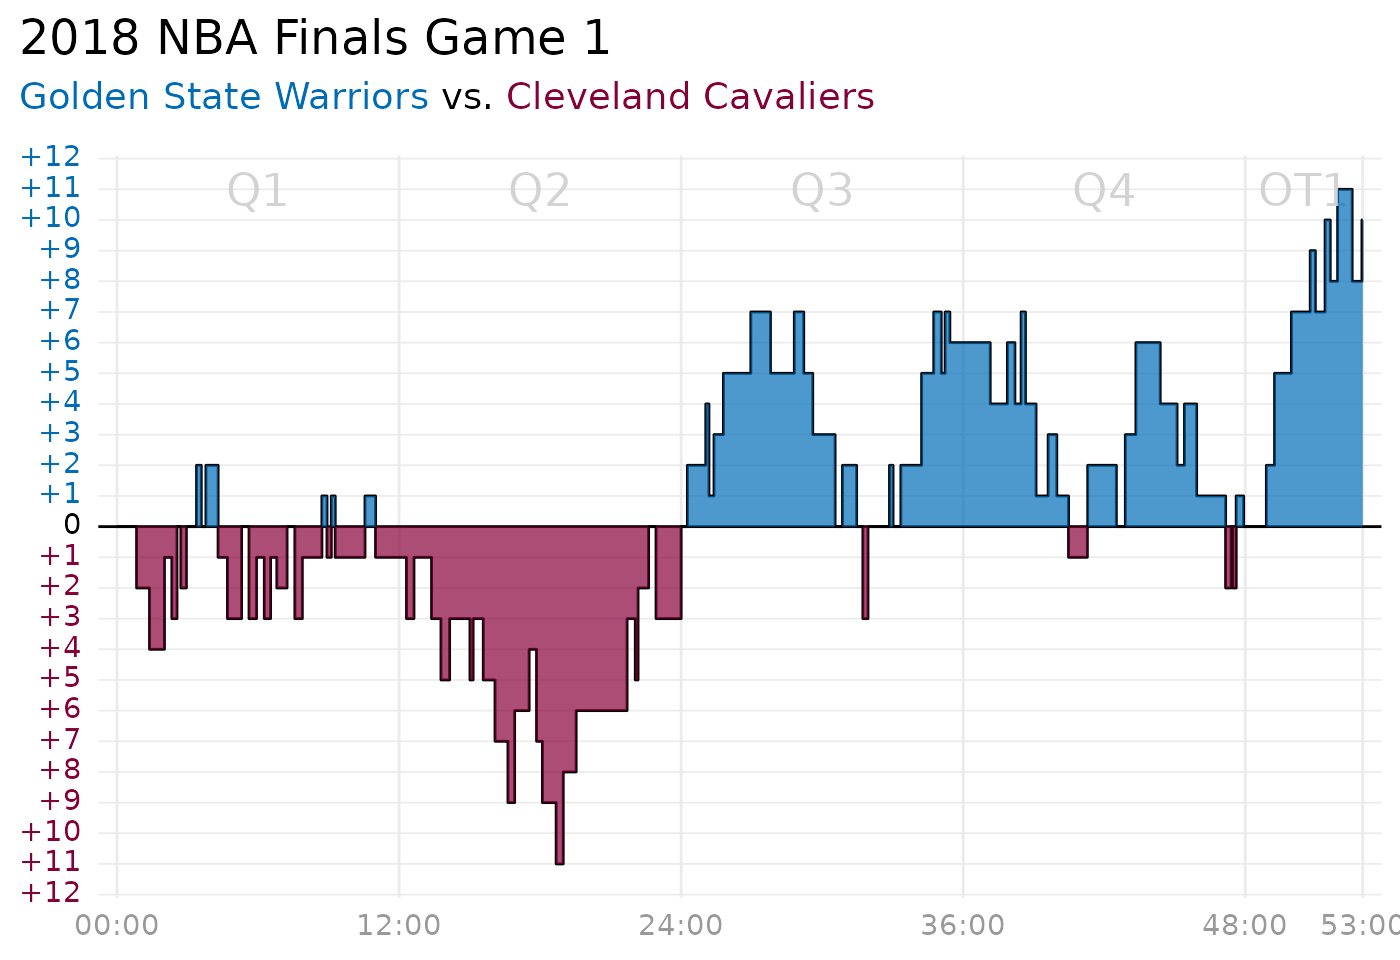
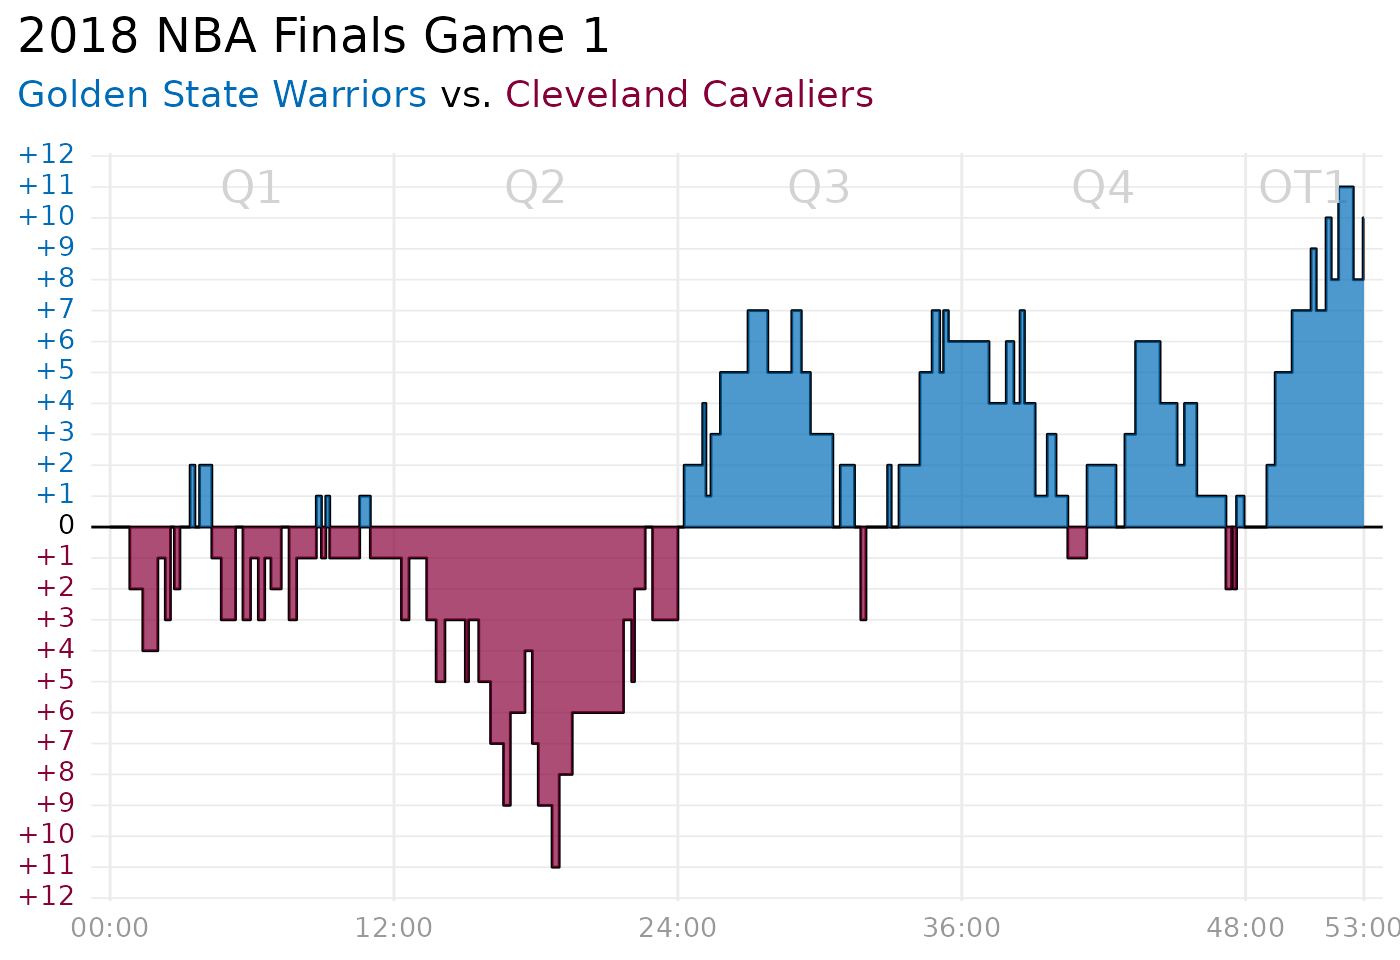
Built site for ggbraid: 0.2.2@66133c0

diff --git a/articles/temps.html b/articles/temps.html
@@ -89,13 +89,13 @@
     
     
 <div class="alert alert-info">
-<p>This article presents the “Unbraided Ribbon Problem” in which <code><a href="https://ggplot2.tidyverse.org/reference/geom_ribbon.html" class="external-link">geom_ribbon()</a></code> incorrectly fills the area between two alternating lines with two different colors. To fix the problem, we use <code><a href="../reference/geom_braid.html">geom_braid()</a></code> from <code>ggbraid</code> with <code>method = 'line'</code>.</p>
+<p>This article presents the “Unbraided Ribbon Problem” in which <code><a href="https://ggplot2.tidyverse.org/reference/geom_ribbon.html" class="external-link">geom_ribbon()</a></code> incorrectly fills the area between two alternating lines with two different colors. To fix the problem, we use <code><a href="../reference/geom_braid.html">geom_braid()</a></code> from ggbraid with <code>method = 'line'</code>.</p>
 </div>
 <p>Let’s compare the temperatures of two cities in the United States: New York, New York and San Francisco, California.</p>
 <div class="section level2">
 <h2 id="getting-started">Getting Started<a class="anchor" aria-label="anchor" href="#getting-started"></a>
 </h2>
-<p><code>ggbraid</code> provides a data frame called <code>temps</code>, with daily average temperatures of New York and San Francisco in 2021 as recorded by the US National Weather Service (NWS) at <a href="https://www.weather.gov/" class="external-link">weather.gov</a>.<a class="footnote-ref" tabindex="0" data-bs-toggle="popover" data-bs-content='&lt;p&gt;It is difficult to pull data from the NWS. It does not provide the data via an API and the data it returns through its point-and-click interface isn’t in plain text format! To make matters worse, you can only retrieve data from a city one month at a time. For San Francisco, visit &lt;a href="https://www.weather.gov/wrh/climate?wfo=mtr" class="external-link"&gt;weather.gov/wrh/climate?wfo=mtr&lt;/a&gt; and choose “San Francisco City, CA”, “Daily data for a month”, and a month from 2021; for New York, visit &lt;a href="https://www.weather.gov/wrh/climate?wfo=okx" class="external-link"&gt;weather.gov/wrh/climate?wfo=okx&lt;/a&gt; and choose “NY-Central Park Area”, “Daily data for a month”, and a month from 2021. Copy and paste the data into spreadsheet software for further processing.&lt;/p&gt;'><sup>1</sup></a></p>
+<p>ggbraid provides a data frame called <code>temps</code>, with daily average temperatures of New York and San Francisco in 2021 as recorded by the US National Weather Service (NWS) at <a href="https://www.weather.gov/" class="external-link">weather.gov</a>.<a class="footnote-ref" tabindex="0" data-bs-toggle="popover" data-bs-content='&lt;p&gt;It is difficult to pull data from the NWS. It does not provide the data via an API and the data it returns through its point-and-click interface isn’t in plain text format! To make matters worse, you can only retrieve data from a city one month at a time. For San Francisco, visit &lt;a href="https://www.weather.gov/wrh/climate?wfo=mtr" class="external-link"&gt;weather.gov/wrh/climate?wfo=mtr&lt;/a&gt; and choose “San Francisco City, CA”, “Daily data for a month”, and a month from 2021; for New York, visit &lt;a href="https://www.weather.gov/wrh/climate?wfo=okx" class="external-link"&gt;weather.gov/wrh/climate?wfo=okx&lt;/a&gt; and choose “NY-Central Park Area”, “Daily data for a month”, and a month from 2021. Copy and paste the data into spreadsheet software for further processing.&lt;/p&gt;'><sup>1</sup></a></p>
 <div class="sourceCode" id="cb1"><pre class="downlit sourceCode r">
 <code class="sourceCode R"><span class="kw"><a href="https://rdrr.io/r/base/library.html" class="external-link">library</a></span><span class="op">(</span><span class="va"><a href="https://ggplot2.tidyverse.org" class="external-link">ggplot2</a></span><span class="op">)</span>
 <span class="kw"><a href="https://rdrr.io/r/base/library.html" class="external-link">library</a></span><span class="op">(</span><span class="va"><a href="https://nsgrantham.github.io/ggbraid/">ggbraid</a></span><span class="op">)</span>
@@ -145,7 +145,7 @@
   <span class="op">)</span> <span class="op">+</span>
   <span class="fu"><a href="https://ggplot2.tidyverse.org/reference/ggtheme.html" class="external-link">theme_minimal</a></span><span class="op">(</span>base_size <span class="op">=</span> <span class="fl">14</span><span class="op">)</span> <span class="op">+</span>
   <span class="fu"><a href="https://ggplot2.tidyverse.org/reference/theme.html" class="external-link">theme</a></span><span class="op">(</span>
-    plot.title <span class="op">=</span> <span class="fu"><a href="https://ggplot2.tidyverse.org/reference/element.html" class="external-link">element_text</a></span><span class="op">(</span>size <span class="op">=</span> <span class="fl">16</span><span class="op">)</span>,
+    plot.title <span class="op">=</span> <span class="fu"><a href="https://ggplot2.tidyverse.org/reference/element.html" class="external-link">element_text</a></span><span class="op">(</span>size <span class="op">=</span> <span class="fl">15</span><span class="op">)</span>,
     plot.title.position <span class="op">=</span> <span class="st">"plot"</span>,
     legend.position <span class="op">=</span> <span class="fu"><a href="https://rdrr.io/r/base/c.html" class="external-link">c</a></span><span class="op">(</span><span class="fl">0.75</span>, <span class="fl">1.06</span><span class="op">)</span>,
     legend.direction <span class="op">=</span> <span class="st">"horizontal"</span>,
@@ -313,7 +313,7 @@
 <div class="section level2">
 <h2 id="braiding-with-ggbraid">Braiding with ggbraid<a class="anchor" aria-label="anchor" href="#braiding-with-ggbraid"></a>
 </h2>
-<p>The functions in <code>ggbraid</code> take care of all the braiding for you. Simply replace <code><a href="https://ggplot2.tidyverse.org/reference/geom_ribbon.html" class="external-link">geom_ribbon()</a></code> with <code><a href="../reference/geom_braid.html">geom_braid()</a></code>.</p>
+<p>The functions in ggbraid take care of all the braiding for you. Simply replace <code><a href="https://ggplot2.tidyverse.org/reference/geom_ribbon.html" class="external-link">geom_ribbon()</a></code> with <code><a href="../reference/geom_braid.html">geom_braid()</a></code>.</p>
 <div class="sourceCode" id="cb7"><pre class="downlit sourceCode r">
 <code class="sourceCode R"><span class="va">p</span> <span class="op">+</span>
   <span class="fu"><a href="../reference/geom_braid.html">geom_braid</a></span><span class="op">(</span>
@@ -325,7 +325,7 @@
 <p><img src="temps_files/figure-html/geom-braid-with-fill-1.png" width="100%"></p>
 <p>There we go!</p>
 <p>Notice the message from <code><a href="../reference/geom_braid.html">geom_braid()</a></code> that it is using <code>method = 'line'</code>. Since we’ve drawn lines with <code><a href="https://ggplot2.tidyverse.org/reference/geom_path.html" class="external-link">geom_line()</a></code> we must use <code>method = 'line'</code> to determine the point at which the lines intersect when the intersection occurs between two rows in the data. We can silence this message by explicity including <code>method = 'line'</code> within <code><a href="../reference/geom_braid.html">geom_braid()</a></code>.</p>
-<p><code><a href="../reference/geom_braid.html">geom_braid()</a></code> isn’t a new geometry. It takes the data provided, performs the necessary braiding operations on it, and passes the result to <code><a href="https://ggplot2.tidyverse.org/reference/geom_ribbon.html" class="external-link">geom_ribbon()</a></code> for drawing. If we’d like, we can still use <code><a href="https://ggplot2.tidyverse.org/reference/geom_ribbon.html" class="external-link">geom_ribbon()</a></code> and set <code>stat = 'braid'</code>.</p>
+<p><code><a href="../reference/geom_braid.html">geom_braid()</a></code> takes the data provided, performs the necessary braiding operations on it with <code><a href="../reference/geom_braid.html">stat_braid()</a></code>, and passes the result to <code><a href="https://ggplot2.tidyverse.org/reference/geom_ribbon.html" class="external-link">geom_ribbon()</a></code> for drawing. If we’d like, we can still use <code><a href="https://ggplot2.tidyverse.org/reference/geom_ribbon.html" class="external-link">geom_ribbon()</a></code> and set <code>stat = 'braid'</code>.</p>
 <div class="sourceCode" id="cb8"><pre class="downlit sourceCode r">
 <code class="sourceCode R"><span class="va">p</span> <span class="op">+</span>
   <span class="fu"><a href="https://ggplot2.tidyverse.org/reference/geom_ribbon.html" class="external-link">geom_ribbon</a></span><span class="op">(</span>

diff --git a/index.html b/index.html
@@ -92,8 +92,8 @@
 </h2>
 <p>You can install the development version of ggbraid from GitHub with:</p>
 <div class="sourceCode" id="cb1"><pre class="downlit sourceCode r">
-<code class="sourceCode R"><span class="co"># install.packages("devtools")</span>
-<span class="fu">devtools</span><span class="fu">::</span><span class="fu">install_github</span><span class="op">(</span><span class="st">"nsgrantham/ggbraid"</span><span class="op">)</span></code></pre></div>
+<code class="sourceCode R"><span class="co"># install.packages("remotes")</span>
+<span class="fu">remotes</span><span class="fu">::</span><span class="fu">install_github</span><span class="op">(</span><span class="st">"nsgrantham/ggbraid"</span><span class="op">)</span></code></pre></div>
 </div>
 <div class="section level2">
 <h2 id="usage">Usage<a class="anchor" aria-label="anchor" href="#usage"></a>
@@ -155,9 +155,8 @@
   <span class="fu"><a href="https://ggplot2.tidyverse.org/reference/geom_ribbon.html" class="external-link">geom_ribbon</a></span><span class="op">(</span><span class="fu"><a href="https://ggplot2.tidyverse.org/reference/aes.html" class="external-link">aes</a></span><span class="op">(</span><span class="va">x</span>, ymin <span class="op">=</span> <span class="va">a</span>, ymax <span class="op">=</span> <span class="va">b</span><span class="op">)</span>, data <span class="op">=</span> <span class="va">df_wide</span>, alpha <span class="op">=</span> <span class="fl">0.2</span><span class="op">)</span> <span class="op">+</span>
   <span class="fu"><a href="https://ggplot2.tidyverse.org/reference/guides.html" class="external-link">guides</a></span><span class="op">(</span>linetype <span class="op">=</span> <span class="st">"none"</span><span class="op">)</span></code></pre></div>
 <p><img src="reference/figures/README-geom-ribbon-without-fill-1.png" width="100%"></p>
-<p>Looking good.</p>
-<p>Now what about two different colors? One color for when the solid line is <em>above</em> the dashed line, and a different color when the solid line is <em>below</em> the dashed line.</p>
-<p>That shouldn’t be too hard. Let’s use <code><a href="https://ggplot2.tidyverse.org/reference/geom_ribbon.html" class="external-link">geom_ribbon()</a></code> again and map <code>a &lt; b</code> to the <code>fill</code> aesthetic.</p>
+<p>Can we fill the area between the two lines with two different colors? One color when the solid line is <em>above</em> the dashed line, and a different color when the solid line is <em>below</em> the dashed line?</p>
+<p>That shouldn’t be hard. Let’s map <code>a &lt; b</code> to the <code>fill</code> aesthetic in <code><a href="https://ggplot2.tidyverse.org/reference/geom_ribbon.html" class="external-link">geom_ribbon()</a></code> and…</p>
 <div class="sourceCode" id="cb5"><pre class="downlit sourceCode r">
 <code class="sourceCode R"><span class="fu"><a href="https://ggplot2.tidyverse.org/reference/ggplot.html" class="external-link">ggplot</a></span><span class="op">(</span><span class="op">)</span> <span class="op">+</span>
   <span class="fu"><a href="https://ggplot2.tidyverse.org/reference/geom_path.html" class="external-link">geom_line</a></span><span class="op">(</span><span class="fu"><a href="https://ggplot2.tidyverse.org/reference/aes.html" class="external-link">aes</a></span><span class="op">(</span><span class="va">x</span>, <span class="va">y</span>, linetype <span class="op">=</span> <span class="va">z</span><span class="op">)</span>, data <span class="op">=</span> <span class="va">df_long</span><span class="op">)</span> <span class="op">+</span>
@@ -165,7 +164,7 @@
   <span class="fu"><a href="https://ggplot2.tidyverse.org/reference/guides.html" class="external-link">guides</a></span><span class="op">(</span>linetype <span class="op">=</span> <span class="st">"none"</span>, fill <span class="op">=</span> <span class="st">"none"</span><span class="op">)</span></code></pre></div>
 <p><img src="reference/figures/README-geom-ribbon-with-fill-1.png" width="100%"></p>
 <p>Chaos. What happened?</p>
-<p>This is called the “Unbraided Ribbon Problem”.</p>
+<p>This is the “Unbraided Ribbon Problem”.</p>
 <p>Not to worry, we can braid the unbraided ribbon with ggbraid — simply replace <code><a href="https://ggplot2.tidyverse.org/reference/geom_ribbon.html" class="external-link">geom_ribbon()</a></code> with <code><a href="reference/geom_braid.html">geom_braid()</a></code>.</p>
 <div class="sourceCode" id="cb6"><pre class="downlit sourceCode r">
 <code class="sourceCode R"><span class="fu"><a href="https://ggplot2.tidyverse.org/reference/ggplot.html" class="external-link">ggplot</a></span><span class="op">(</span><span class="op">)</span> <span class="op">+</span>
@@ -174,7 +173,6 @@
   <span class="fu"><a href="https://ggplot2.tidyverse.org/reference/guides.html" class="external-link">guides</a></span><span class="op">(</span>linetype <span class="op">=</span> <span class="st">"none"</span>, fill <span class="op">=</span> <span class="st">"none"</span><span class="op">)</span>
 <span class="co">#&gt; `geom_braid()` using method = 'line'</span></code></pre></div>
 <p><img src="reference/figures/README-geom-braid-with-fill-1.png" width="100%"></p>
-<p>There we go.</p>
 </div>
 <div class="section level2">
 <h2 id="articles">Articles<a class="anchor" aria-label="anchor" href="#articles"></a>

diff --git a/reference/temps.html b/reference/temps.html
@@ -68,7 +68,7 @@ in 2021 as recorded by the US National Weather Service (NWS) at weather.gov.</p>
     <div class="section level2">
     <h2 id="format">Format<a class="anchor" aria-label="anchor" href="#format"></a></h2>
     <p>A data frame (specifically a tbl_df) with 730 rows and 3 variables:</p><dl><dt><code>city</code></dt>
-<dd><p>New York or San Francisco</p></dd>
+<dd><p><code>New York</code> or <code>San Francisco</code></p></dd>
 
 <dt><code>date</code></dt>
 <dd><p>Date in <code>YYYY-MM-DD</code> format</p></dd>
@@ -85,13 +85,32 @@ the nearest half degree</p></dd>
 an API and the data it returns through its point-and-click interface isn't in
 plain text format! To make matters worse, you can only retrieve data from a
 city one month at a time.</p>
-<p>For San Francisco, visit https://www.weather.gov/wrh/climate?wfo=mtr
+<p>For San Francisco, visit <a href="https://www.weather.gov/wrh/climate?wfo=mtr" class="external-link">https://www.weather.gov/wrh/climate?wfo=mtr</a>
 and choose "San Francisco City, CA", "Daily data for a month", and a month
-from 2021; for New York, visit https://www.weather.gov/wrh/climate?wfo=okx
+from 2021; for New York, visit <a href="https://www.weather.gov/wrh/climate?wfo=okx" class="external-link">https://www.weather.gov/wrh/climate?wfo=okx</a>
 and choose "NY-Central Park Area", "Daily data for a month", and a month from
 2021. Copy and paste the data into spreadsheet software for further processing.</p>
     </div>
 
+    <div class="section level2">
+    <h2 id="ref-examples">Examples<a class="anchor" aria-label="anchor" href="#ref-examples"></a></h2>
+    <div class="sourceCode"><pre class="sourceCode r"><code><span class="r-in"><span class="va">temps</span></span>
+<span class="r-out co"><span class="r-pr">#&gt;</span> <span style="color: #949494;"># A tibble: 730 × 3</span></span>
+<span class="r-out co"><span class="r-pr">#&gt;</span>    city     date         avg</span>
+<span class="r-out co"><span class="r-pr">#&gt;</span>    <span style="color: #949494; font-style: italic;">&lt;chr&gt;</span>    <span style="color: #949494; font-style: italic;">&lt;date&gt;</span>     <span style="color: #949494; font-style: italic;">&lt;dbl&gt;</span></span>
+<span class="r-out co"><span class="r-pr">#&gt;</span> <span style="color: #BCBCBC;"> 1</span> New York 2021-01-01  36.5</span>
+<span class="r-out co"><span class="r-pr">#&gt;</span> <span style="color: #BCBCBC;"> 2</span> New York 2021-01-02  43.5</span>
+<span class="r-out co"><span class="r-pr">#&gt;</span> <span style="color: #BCBCBC;"> 3</span> New York 2021-01-03  36  </span>
+<span class="r-out co"><span class="r-pr">#&gt;</span> <span style="color: #BCBCBC;"> 4</span> New York 2021-01-04  39  </span>
+<span class="r-out co"><span class="r-pr">#&gt;</span> <span style="color: #BCBCBC;"> 5</span> New York 2021-01-05  39  </span>
+<span class="r-out co"><span class="r-pr">#&gt;</span> <span style="color: #BCBCBC;"> 6</span> New York 2021-01-06  37.5</span>
+<span class="r-out co"><span class="r-pr">#&gt;</span> <span style="color: #BCBCBC;"> 7</span> New York 2021-01-07  35.5</span>
+<span class="r-out co"><span class="r-pr">#&gt;</span> <span style="color: #BCBCBC;"> 8</span> New York 2021-01-08  32  </span>
+<span class="r-out co"><span class="r-pr">#&gt;</span> <span style="color: #BCBCBC;"> 9</span> New York 2021-01-09  30.5</span>
+<span class="r-out co"><span class="r-pr">#&gt;</span> <span style="color: #BCBCBC;">10</span> New York 2021-01-10  35  </span>
+<span class="r-out co"><span class="r-pr">#&gt;</span> <span style="color: #949494;"># … with 720 more rows</span></span>
+</code></pre></div>
+    </div>
   </main><aside class="col-md-3"><nav id="toc"><h2>On this page</h2>
     </nav></aside></div>
 

diff --git a/reference/hoops.html b/reference/hoops.html
@@ -71,10 +71,10 @@ Warriors and the Cleveland Cavaliers.</p>
     <div class="section level2">
     <h2 id="format">Format<a class="anchor" aria-label="anchor" href="#format"></a></h2>
     <p>A data frame (specifically a tbl_df) with 129 rows and 3 variables:</p><dl><dt><code>time</code></dt>
-<dd><p>Game time in <code>MM\\'SS\\"</code> format</p></dd>
+<dd><p>Game time</p></dd>
 
 <dt><code>team</code></dt>
-<dd><p>Golden State Warriors (GSW) or Cleveland Cavaliers (CLE)</p></dd>
+<dd><p>Golden State Warriors (<code>GSW</code>) or Cleveland Cavaliers (<code>CLE</code>)</p></dd>
 
 <dt><code>points</code></dt>
 <dd><p>Points scored, either 1, 2, or 3 (or 0, only in cases
@@ -83,6 +83,25 @@ to mark the start and end of the game)</p></dd>
 
 </dl></div>
 
+    <div class="section level2">
+    <h2 id="ref-examples">Examples<a class="anchor" aria-label="anchor" href="#ref-examples"></a></h2>
+    <div class="sourceCode"><pre class="sourceCode r"><code><span class="r-in"><span class="va">hoops</span></span>
+<span class="r-out co"><span class="r-pr">#&gt;</span> <span style="color: #949494;"># A tibble: 129 × 3</span></span>
+<span class="r-out co"><span class="r-pr">#&gt;</span>    time     team  points</span>
+<span class="r-out co"><span class="r-pr">#&gt;</span>    <span style="color: #949494; font-style: italic;">&lt;drtn&gt;</span>   <span style="color: #949494; font-style: italic;">&lt;chr&gt;</span>  <span style="color: #949494; font-style: italic;">&lt;dbl&gt;</span></span>
+<span class="r-out co"><span class="r-pr">#&gt;</span> <span style="color: #BCBCBC;"> 1</span>   0 secs CLE        0</span>
+<span class="r-out co"><span class="r-pr">#&gt;</span> <span style="color: #BCBCBC;"> 2</span>   0 secs GSW        0</span>
+<span class="r-out co"><span class="r-pr">#&gt;</span> <span style="color: #BCBCBC;"> 3</span>  50 secs CLE        2</span>
+<span class="r-out co"><span class="r-pr">#&gt;</span> <span style="color: #BCBCBC;"> 4</span>  83 secs CLE        2</span>
+<span class="r-out co"><span class="r-pr">#&gt;</span> <span style="color: #BCBCBC;"> 5</span> 121 secs GSW        3</span>
+<span class="r-out co"><span class="r-pr">#&gt;</span> <span style="color: #BCBCBC;"> 6</span> 140 secs CLE        2</span>
+<span class="r-out co"><span class="r-pr">#&gt;</span> <span style="color: #BCBCBC;"> 7</span> 153 secs GSW        2</span>
+<span class="r-out co"><span class="r-pr">#&gt;</span> <span style="color: #BCBCBC;"> 8</span> 153 secs GSW        1</span>
+<span class="r-out co"><span class="r-pr">#&gt;</span> <span style="color: #BCBCBC;"> 9</span> 163 secs CLE        1</span>
+<span class="r-out co"><span class="r-pr">#&gt;</span> <span style="color: #BCBCBC;">10</span> 163 secs CLE        1</span>
+<span class="r-out co"><span class="r-pr">#&gt;</span> <span style="color: #949494;"># … with 119 more rows</span></span>
+</code></pre></div>
+    </div>
   </main><aside class="col-md-3"><nav id="toc"><h2>On this page</h2>
     </nav></aside></div>
 

diff --git a/articles/hoops.html b/articles/hoops.html
@@ -95,7 +95,7 @@
 <div class="section level2">
 <h2 id="getting-started">Getting Started<a class="anchor" aria-label="anchor" href="#getting-started"></a>
 </h2>
-<p><code>ggbraid</code> provides a data frame called <code>hoops</code> with the points scored throughout the course of Game 1 of the 2018 National Basketball Association (NBA) Finals between the Golden State Warriors and the Cleveland Cavaliers.</p>
+<p>ggbraid provides a data frame called <code>hoops</code> with the points scored throughout the course of Game 1 of the 2018 National Basketball Association (NBA) Finals between the Golden State Warriors and the Cleveland Cavaliers.</p>
 <div class="sourceCode" id="cb1"><pre class="downlit sourceCode r">
 <code class="sourceCode R"><span class="kw"><a href="https://rdrr.io/r/base/library.html" class="external-link">library</a></span><span class="op">(</span><span class="va"><a href="https://ggplot2.tidyverse.org" class="external-link">ggplot2</a></span><span class="op">)</span>
 <span class="kw"><a href="https://rdrr.io/r/base/library.html" class="external-link">library</a></span><span class="op">(</span><span class="va"><a href="https://nsgrantham.github.io/ggbraid/">ggbraid</a></span><span class="op">)</span>
@@ -231,7 +231,7 @@
     y <span class="op">=</span> <span class="cn">NULL</span>,
     x <span class="op">=</span> <span class="cn">NULL</span>
   <span class="op">)</span> <span class="op">+</span>
-  <span class="fu"><a href="https://ggplot2.tidyverse.org/reference/ggtheme.html" class="external-link">theme_minimal</a></span><span class="op">(</span>base_size <span class="op">=</span> <span class="fl">14</span><span class="op">)</span> <span class="op">+</span>
+  <span class="fu"><a href="https://ggplot2.tidyverse.org/reference/ggtheme.html" class="external-link">theme_minimal</a></span><span class="op">(</span>base_size <span class="op">=</span> <span class="fl">13</span><span class="op">)</span> <span class="op">+</span>
   <span class="fu"><a href="https://ggplot2.tidyverse.org/reference/theme.html" class="external-link">theme</a></span><span class="op">(</span>
     plot.title <span class="op">=</span> <span class="fu"><a href="https://wilkelab.org/ggtext/reference/element_markdown.html" class="external-link">element_markdown</a></span><span class="op">(</span>size <span class="op">=</span> <span class="fl">18</span><span class="op">)</span>,
     plot.title.position <span class="op">=</span> <span class="st">"plot"</span>,

diff --git a/reference/index.html b/reference/index.html
@@ -52,7 +52,7 @@
     </div>
 
     <div class="section level2">
-      <h2 id="all-functions">All functions<a class="anchor" aria-label="anchor" href="#all-functions"></a></h2>
+      <h2 id="functions">Functions<a class="anchor" aria-label="anchor" href="#functions"></a></h2>
       
       
 
@@ -67,18 +67,30 @@
           <code><a href="geom_braid.html">geom_braid()</a></code> <code><a href="geom_braid.html">stat_braid()</a></code> 
         </dt>
         <dd>Braided ribbons</dd>
+      </dl></div><div class="section level2">
+      <h2 id="data">Data<a class="anchor" aria-label="anchor" href="#data"></a></h2>
+      
+      
+
+      
+    </div><div id="" class="section level2">
+      
+      
+      
+
+      <dl><dt>
+          
+          <code><a href="temps.html">temps</a></code> 
+        </dt>
+        <dd>Average Daily Temperatures</dd>
       </dl><dl><dt>
           
           <code><a href="hoops.html">hoops</a></code> 
         </dt>
         <dd>NBA Finals Game</dd>
-      </dl><dl><dt>
-          
-          <code><a href="temps.html">temps</a></code> 
-        </dt>
-        <dd>Average Daily Temperatures</dd>
       </dl></div>
-  </main></div>
+  </main><aside class="col-md-3"><nav id="toc"><h2>On this page</h2>
+    </nav></aside></div>
 
 
     <footer><div class="pkgdown-footer-left">

diff --git a/reference/geom_braid.html b/reference/geom_braid.html
@@ -141,6 +141,10 @@ the default plot specification, e.g. <code><a href="https://ggplot2.tidyverse.or
 <dt>geom</dt>
 <dd><p>Override the default connection with <code>geom_braid()</code>.</p></dd>
 </dl></div>
+    <div class="section level2">
+    <h2 id="value">Value<a class="anchor" aria-label="anchor" href="#value"></a></h2>
+    <p>A ggplot2 layer that can be added to a plot created with <code><a href="https://ggplot2.tidyverse.org/reference/ggplot.html" class="external-link">ggplot()</a></code>.</p>
+    </div>
 
     <div class="section level2">
     <h2 id="ref-examples">Examples<a class="anchor" aria-label="anchor" href="#ref-examples"></a></h2>
